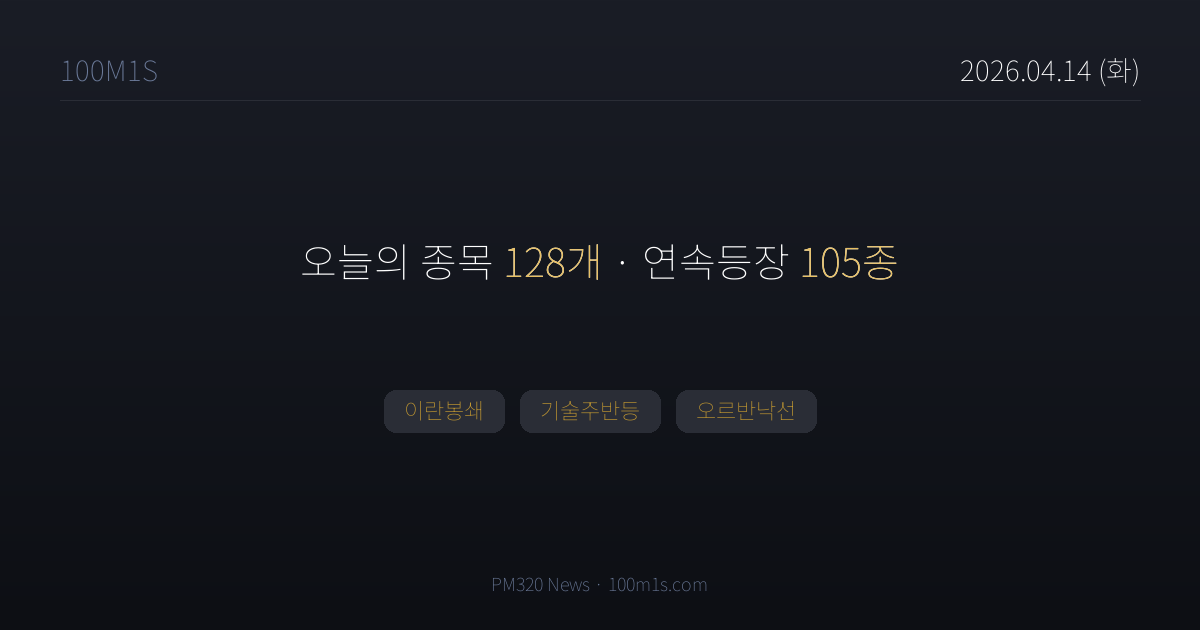
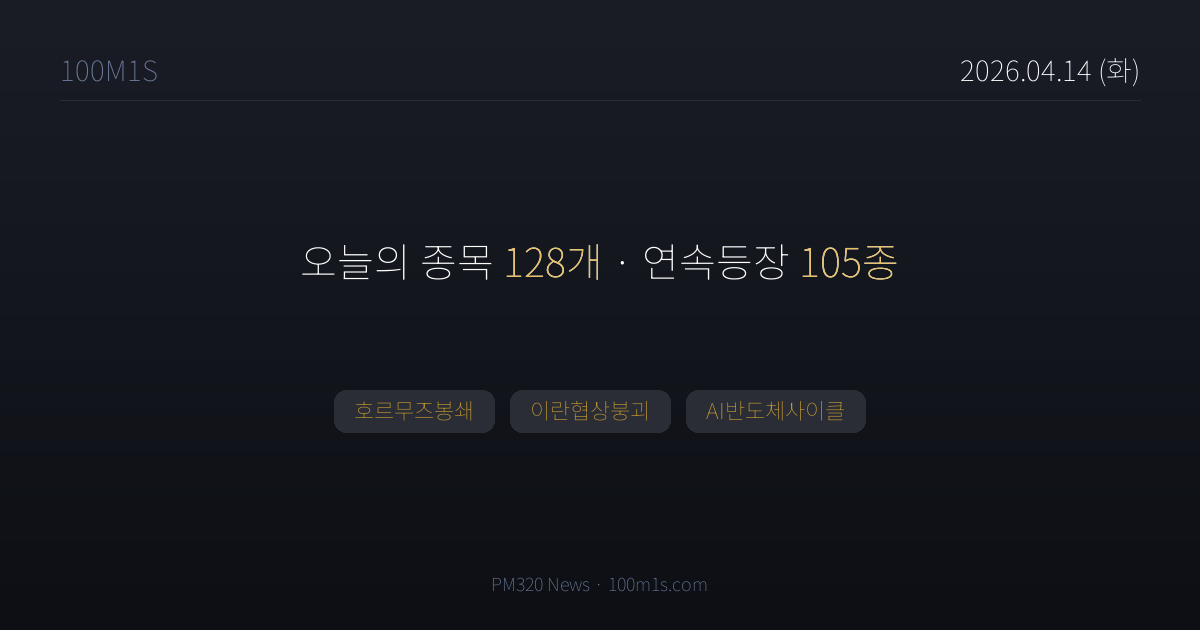
chore(news): 2026-04-14T05:51 pipeline

Changed region(s): [[0.2775, 0.6032, 0.74, 0.6937]]

diff --git a/news/2026-04-14.html b/news/2026-04-14.html
@@ -4,7 +4,7 @@
 <meta charset="UTF-8">
 <title>4월 14일 (화) 뉴스 — 100M1S</title>
 <meta property="og:title" content="4월 14일 (화) · 종목 128개">
-<meta property="og:description" content="이란봉쇄, 기술주반등, 오르반낙선">
+<meta property="og:description" content="호르무즈봉쇄, 이란협상붕괴, AI반도체사이클">
 <meta property="og:image" content="https://100m1s.com/og/2026-04-14.png">
 <meta property="og:image:width" content="1200">
 <meta property="og:image:height" content="630">
